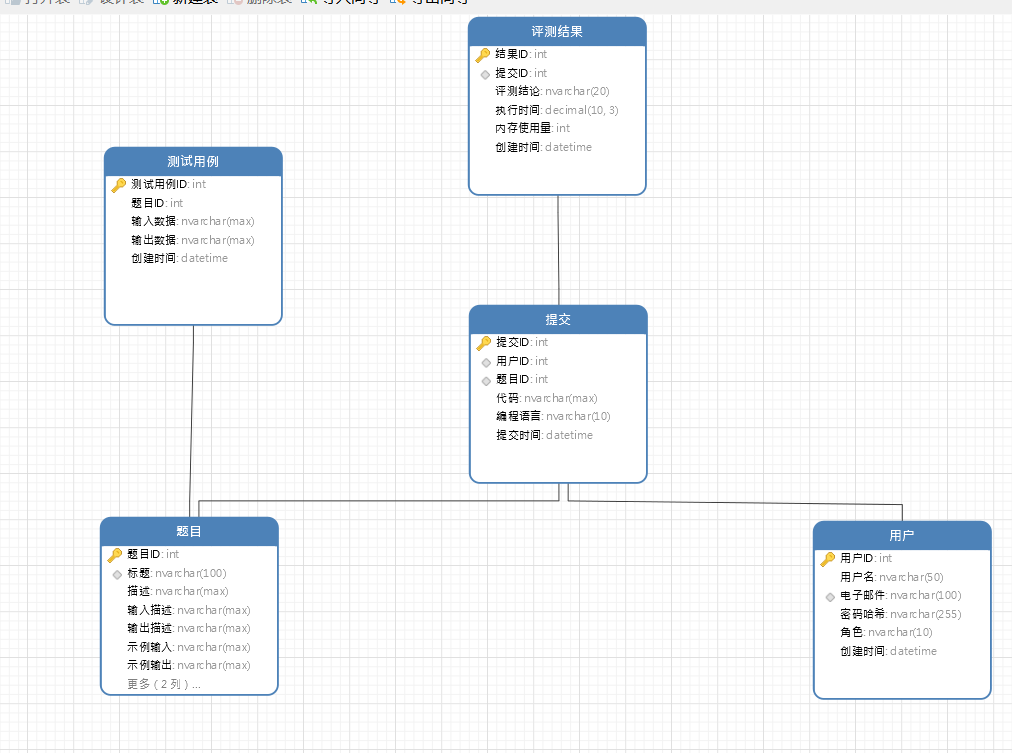
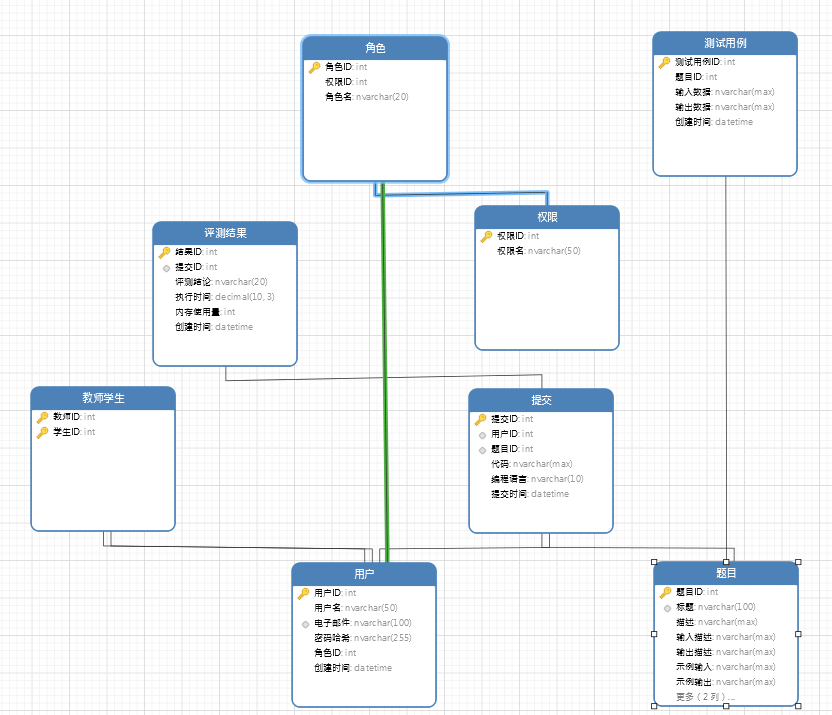
数据库部分初步完成

diff --git a/软件设计说明/数据库设计.md b/软件设计说明/数据库设计.md
@@ -1,11 +1,35 @@
 # 3.数据库设计
-## 3.1ER图设计
+## 3.1. ER图设计
 ![ER图](../images/数据库ER图.png)
-## 3.2 表设计
-<p style="text-indent:2em;">暂时设计了5个表，具体如下
+## 3.2. 表设计
+<p style="text-indent:2em;">暂时设计了10个表，具体如下
 
-### 3.2.1 用户表
-<p style="text-indent:2em;"> 除开基本的用户名和密码外，用户信息也可包括个人邮箱号，方便后续的操作，如向邮箱发送网站最新信息、教师给学生发送邮件提醒等功能。除此之外，根据需求文档说明，用户拥有三种角色，一种是普通用户，一种是管理员，一种是教师，三种身份拥有的权能不一样。具体设计代码如下：</p>
+### 3.2.1. 权限表
+<p style="text-indent:2em;"> 每一个ID对应一个权限名，具体功能根据后续需求进行设计。具体设计代码如下：
+
+```
+CREATE TABLE 权限 (
+    权限ID INT IDENTITY(1,1) PRIMARY KEY,
+    权限名 NVARCHAR(50) NOT NULL UNIQUE
+);
+```
+<p style="text-indent:2em;">主键为权限ID，权限名添加唯一约束与非空约束
+
+### 3.2.2. 角色表
+<p style="text-indent:2em;"> 每一个角色ID对应一个角色名，如游客、学生、管理员等，不同角色拥有不同的权限，因此权限字段通过外键与权限表连接。具体设计代码如下：
+
+```
+CREATE TABLE 角色 (
+    角色ID INT IDENTITY(1,1) PRIMARY KEY,
+    权限ID INT,
+    角色名 NVARCHAR(20) NOT NULL UNIQUE,
+    FOREIGN KEY (权限ID) REFERENCES 权限(权限ID)
+);
+```
+<p style="text-indent:2em;"> 主键为角色ID，角色名添加唯一约束与非空约束，权限ID添加外键约束与权限表连接
+
+### 3.2.3. 用户表
+<p style="text-indent:2em;"> 除开基本的用户名和密码外，用户信息也可包括个人邮箱号，方便后续的操作，如向邮箱发送网站最新信息、教师给学生发送邮件提醒等功能。除此之外，根据需求文档说明，用户可拥有多种角色，如管理员、学生、教师等。为了后续方便拓展新身份，将该字段通过外键与角色表连接起来，并且拥有不同的权限。具体设计代码如下：</p>
 
 ```
 CREATE TABLE 用户 (
@@ -13,11 +37,14 @@ CREATE TABLE 用户 (
     用户名 NVARCHAR(50) NOT NULL,
     电子邮件 NVARCHAR(100) NOT NULL UNIQUE,
     密码哈希 NVARCHAR(255) NOT NULL,
-    角色 NVARCHAR(10) CHECK (角色 IN ('管理员', '用户', '教师')) DEFAULT '用户',
-    创建时间 DATETIME DEFAULT GETDATE()
+    角色ID INT,
+    创建时间 DATETIME DEFAULT GETDATE(),
+    FOREIGN KEY (角色ID) REFERENCES 角色(角色ID)
 );
 ```
-### 3.2.2 题目表
+<p style="text-indent:2em;"> 主键为用户ID。考虑到每个邮箱只能绑定一个账号，电子邮件添加唯一约束。角色ID添加外键约束与角色表连接。
+
+### 3.2.4. 题目表
 <p style="text-indent:2em;"> 每道题目拥有独一的id，除此之外，参考市面上的OJ平台的每道题目的形式，添加标题、描述、输入描述、输出描述、示例输入、示例输出字段，根据我们项目的需求，添加题目的难度字段，方便用户根据自身需求查找对应难度的题目，后续还会加上算法描述字段以让用户查找具体算法对应的题目。实际效果如下，参考市面上的oj平台：
 
 ![题目示例](../images/题目示例.png)
@@ -35,7 +62,9 @@ CREATE TABLE 题目 (
     创建时间 DATETIME DEFAULT GETDATE()
 );
 ```
-### 3.2.3 提交表
+<p style="text-indent:2em;"> 主键为题目ID。难度字段添加检查约束与默认约束，难度包括简单、中等和困难，默认中等。
+
+### 3.2.5. 提交表
 <p style="text-indent:2em;"> 该表的功能不仅是把数据给后端评测程序处理，还保存了每一次用户提交的代码和结果等，方便用户查找之前的提交记录以及对比每一次提交的结果，实际效果对应上图中的提交记录tab。具体设计代码如下：
 
 ```
@@ -50,7 +79,9 @@ CREATE TABLE 提交 (
     FOREIGN KEY (题目ID) REFERENCES 题目(题目ID)
 );
 ```
-### 3.2.4 评测结果表
+<p style="text-indent:2em;"> 主键为提交ID，编程语言字段添加检查约束与非空约束。用户ID与题目ID分别通过外键约束与用户表和题目表连接。
+
+### 3.2.6. 评测结果表
 <p style="text-indent:2em;"> 该表保存了评测结果，后续通过该表向前端显示对应的结果，如通过、超时、错误答案等。我们也考虑到用户可能会用不同的算法解决问题，为了对比哪种算法更优，该表也保存了执行时间和内存使用量的数据。具体设计代码如下：
 
 ```
@@ -64,7 +95,9 @@ CREATE TABLE 评测结果 (
     FOREIGN KEY (提交ID) REFERENCES 提交(提交ID)
 );
 ```
-### 3.2.5 测试用例表
+<p style="text-indent:2em;"> 主键为结果ID，评测结论字段添加检查约束与非空约束。提交ID通过外键约束与提交表连接
+
+### 3.2.7. 测试用例表
 <p style="text-indent:2em;"> 该表保存了每道题目的测试用例的信息。具体设计代码如下：
 
 ```
@@ -77,4 +110,18 @@ CREATE TABLE 测试用例 (
     FOREIGN KEY (题目ID) REFERENCES 题目(题目ID)
 );
 ```
-## 3.3 约束设计
+<p style="text-indent:2em;"> 主键为测试用例ID。题目ID通过外键约束与题目表连接
+
+### 3.2.8. 教师学生表
+<p style="text-indent:2em;"> 该表关联了教师与学生的信息，具体一个教师可对应多个学生，一个学生也可对应多个教师。具体教师表与学生表根据后续需求再进行设计。具体设计代码如下：
+
+```
+CREATE TABLE 教师学生 (
+    教师ID INT NOT NULL,
+    学生ID INT NOT NULL,
+    PRIMARY KEY (教师ID, 学生ID),
+    FOREIGN KEY (教师ID) REFERENCES 用户(用户ID),
+    FOREIGN KEY (学生ID) REFERENCES 用户(用户ID)
+);
+```
+<p style="text-indent:2em;"> 主键为教师ID和学生ID的组合，教师ID和学生ID通过外键约束分别连接用户表的用户ID字段

diff --git a/SUMMARY.md b/SUMMARY.md
@@ -4,3 +4,5 @@
   * [1.2. 项目概述](项目概述/项目概述.md)
 * 2. 需求规格说明
   * [2.1. 引言](需求规格说明/引言.md)
+* 3. 软件设计说明
+  * [3.3. 数据库设计](软件设计说明/数据库设计.md)
